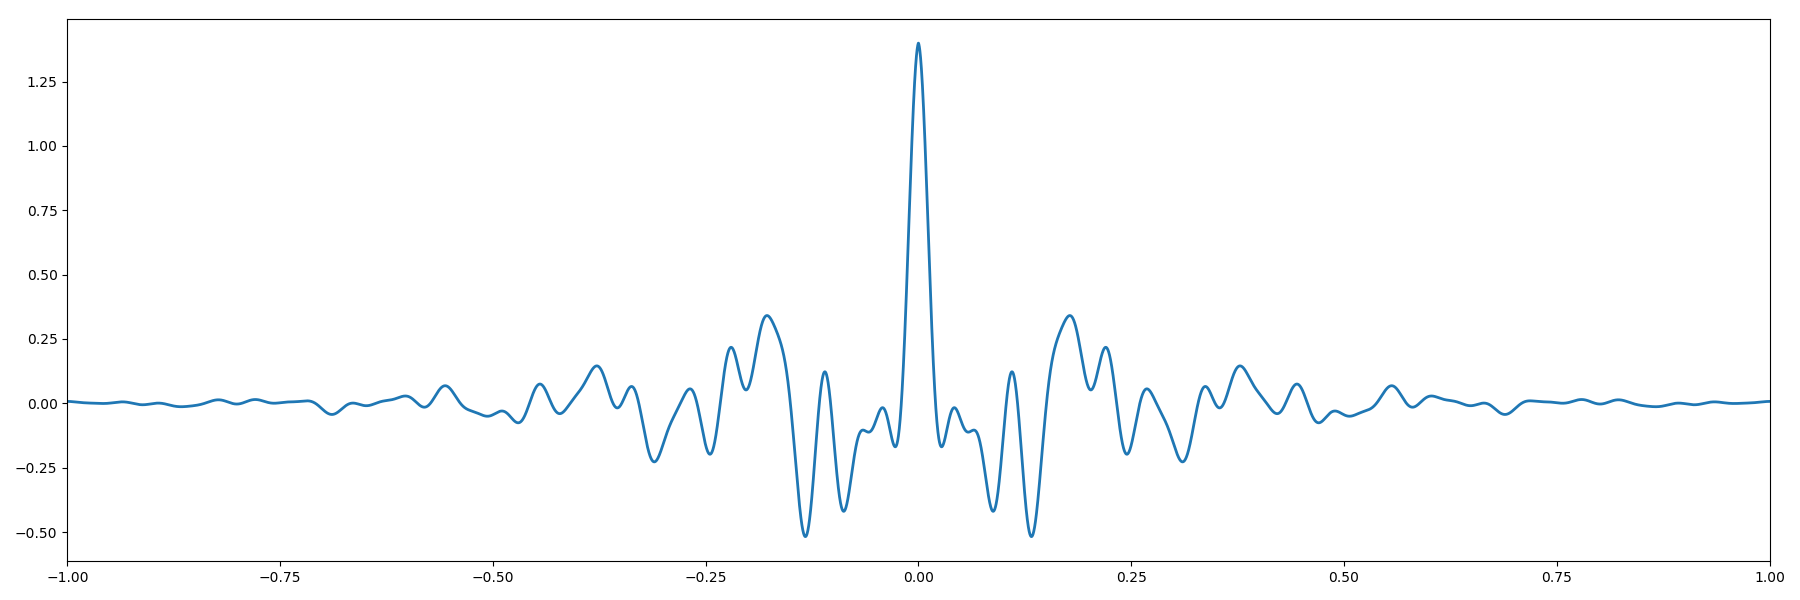
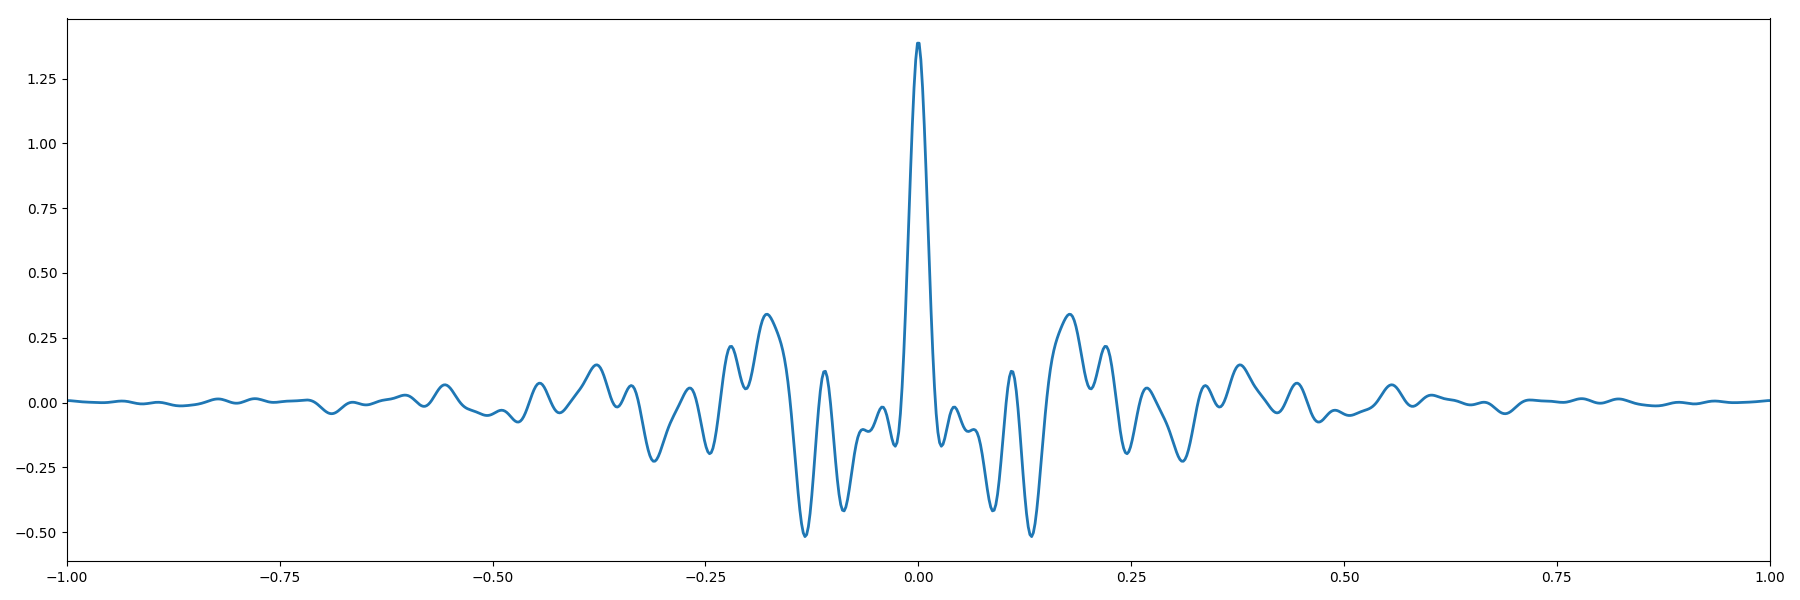
script toy demo inharmonic kernel.

diff --git a/notebooks/demo_inharmonic_toy.py b/notebooks/demo_inharmonic_toy.py
@@ -1,0 +1,95 @@
+import numpy as np
+import tensorflow as tf
+import gpflow
+from scipy.io import wavfile as wav
+from scipy.fftpack import fft, ifft
+import matplotlib
+server = False # define if running code on server
+if server:
+   matplotlib.use('agg')
+from matplotlib import pyplot as plt
+import sys
+sys.path.append('../')
+import gpitch
+reload(gpitch)
+
+
+np.random.seed(1)
+gpitch.amtgp.init_settings(visible_device = '0', interactive=True) #  configure gpu usage and plotting
+
+Nc = 4 #  set kernel params
+var =  np.ones((Nc, 1))
+var = np.asarray([.5, .3, .4, .1])
+beta = 0.02
+f0 = 20.
+leng = np.ones((Nc, 1))
+leng = np.asarray([.4, .3, .2, .1])
+
+kern_f = gpitch.kernels.Inharmonic(input_dim=1, lengthscales=leng, variances=var, beta=beta, f0=f0)
+kern_g = gpflow.kernels.Matern32(input_dim=1, lengthscales=0.1, variance=10.)
+
+noise_var = 1e-3
+N = 2000 # generate synthetic data
+x = np.linspace(0, 1, N).reshape(-1,1)
+Kf = kern_f.compute_K_symm(x)
+Kg = kern_g.compute_K_symm(x)
+f = np.random.multivariate_normal(np.zeros(N), Kf, 1).reshape(-1, 1)
+g = np.random.multivariate_normal(np.zeros(N), Kg, 1).reshape(-1, 1)
+mean = gpitch.amtgp.logistic(g) * f
+y = mean + np.sqrt(noise_var)*np.random.randn(*mean.shape)
+
+
+plt.figure()
+plt.plot(x, f, lw=2)
+plt.twinx()
+plt.plot(x, gpitch.amtgp.logistic(g), 'g', lw=2)
+
+plt.figure()
+plt.plot(x, y, lw=2)
+
+
+
+
+
+x_plot = np.linspace(-1, 1, N).reshape(-1,1)
+kern_plot = kern_f.compute_K(x_plot, np.asarray(0.).reshape(-1,1)) #  plot kernel
+
+
+plt.figure()
+plt.plot(x_plot, kern_plot, lw=2)
+plt.xlim([-1, 1])
+plt.tight_layout()
+plt.savefig('../figures/demo_inharmonic_toy.png')
+#print kern.compute_Kdiag(x)
+
+
+
+
+
+
+
+
+
+
+
+
+
+
+
+
+
+
+
+
+
+
+
+
+
+
+
+
+
+
+
+#
